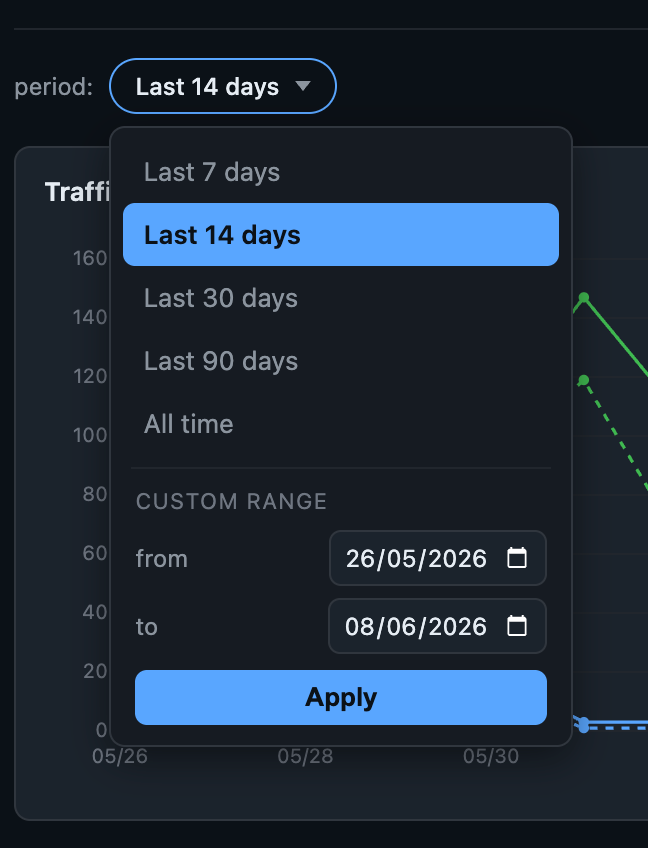
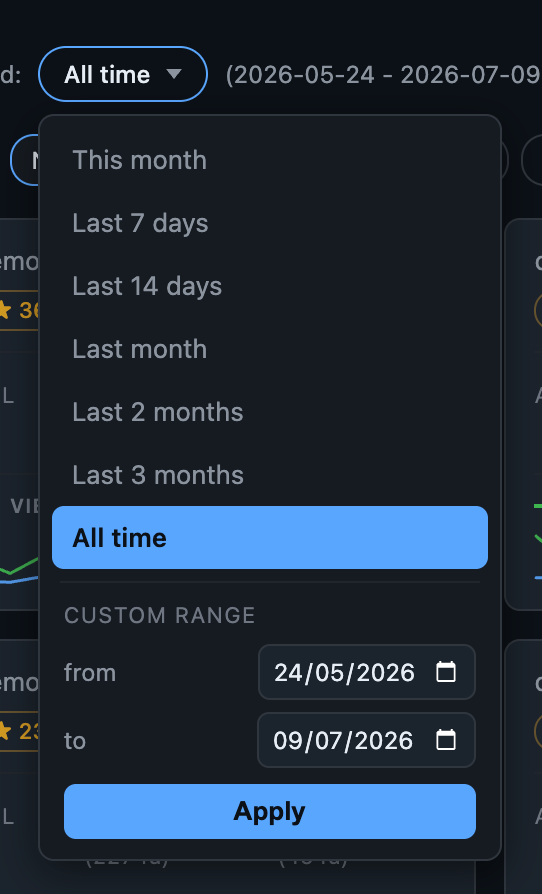
- Bump up app version - Update CHANGELOG - Update dated README screenshots

diff --git a/github_traffic_vault/__init__.py b/github_traffic_vault/__init__.py
@@ -1,3 +1,3 @@
 """github-traffic-vault - permanent local archive of GitHub repo traffic data."""
 
-__version__ = "0.5.0"
+__version__ = "0.6.0"

diff --git a/CHANGELOG.md b/CHANGELOG.md
@@ -7,6 +7,8 @@ and this project adheres to [Semantic Versioning](https://semver.org/spec/v2.0.0
 
 ## [Unreleased]
 
+## [0.6.0] - 2026-07-09
+
 ### Added
 
 - Helper functions to format sync run integers for the UI, abbreviating from 1000 upward (e.g., 1234 > '1.2k')
